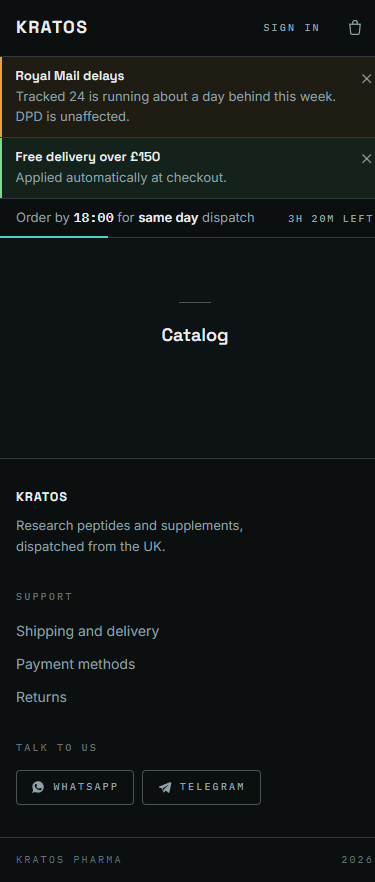
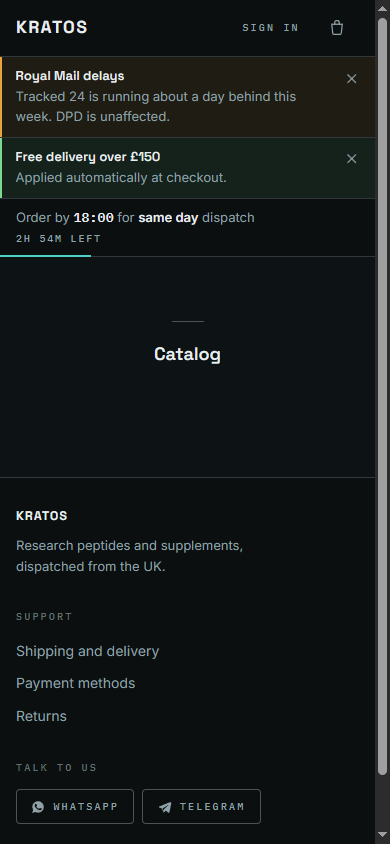
fix(web): closed-gate recovery polling, 44px tap targets, cut-off bar wrap, cart redirect flash
Claude-Session: https://claude.ai/code/session_01GcxZST4rkeVRNoYRfHhmv5

diff --git a/web/test/closed-gate.test.tsx b/web/test/closed-gate.test.tsx
@@ -1,0 +1,105 @@
+import { afterEach, describe, expect, it, vi } from 'vitest';
+import { act, cleanup, render, screen } from '@testing-library/react';
+import { QueryClient, QueryClientProvider } from '@tanstack/react-query';
+import { MantineProvider } from '@mantine/core';
+
+const api = vi.hoisted(() => ({ fetchSettings: vi.fn() }));
+vi.mock('@/api/settings.ts', () => ({ fetchSettings: api.fetchSettings }));
+
+import { CLOSED_POLL_MS, ClosedGate } from '@/app/App.tsx';
+import { SETTINGS_KEY } from '@/app/settings.ts';
+import { closedGate } from '@/app/closed-gate.ts';
+import type { StorefrontSettings } from '@/types/settings.ts';
+
+function settings(enabled: boolean): StorefrontSettings {
+  return {
+    enabled,
+    closedMessage: 'Back shortly.',
+    supportLinks: [],
+    brand: {
+      name: 'Kratos', shortName: 'KRATOS', tagline: '', title: 'Kratos', description: '',
+      logoUrl: null, faviconUrl: null, logoHeight: 28,
+      links: { whatsapp: null, telegram: null },
+    },
+  } as unknown as StorefrontSettings;
+}
+
+function mount() {
+  const client = new QueryClient({ defaultOptions: { queries: { retry: false } } });
+  client.setQueryData(SETTINGS_KEY, settings(true));
+  return render(
+    <QueryClientProvider client={client}>
+      <MantineProvider env="test">
+        <ClosedGate>
+          <p>Shop</p>
+        </ClosedGate>
+      </MantineProvider>
+    </QueryClientProvider>,
+  );
+}
+
+afterEach(() => {
+  cleanup();
+  vi.useRealTimers();
+  api.fetchSettings.mockReset();
+  closedGate.getState().setClosed(false);
+});
+
+describe('ClosedGate', () => {
+  it('reopens on its own after a mid-session 503, without a reload', async () => {
+    vi.useFakeTimers();
+    api.fetchSettings.mockResolvedValue(settings(true));
+    // What api/client.ts does when any call answers 503 STOREFRONT_DISABLED: the gate
+    // closes while the cached settings still say enabled, so nothing else would refetch.
+    closedGate.getState().setClosed(true);
+
+    mount();
+    expect(screen.getByText('Currently closed')).toBeInTheDocument();
+    expect(screen.queryByText('Shop')).toBeNull();
+    expect(api.fetchSettings).not.toHaveBeenCalled();
+
+    await act(async () => {
+      await vi.advanceTimersByTimeAsync(CLOSED_POLL_MS);
+    });
+
+    expect(api.fetchSettings).toHaveBeenCalled();
+    expect(closedGate.getState().closed).toBe(false);
+    expect(screen.getByText('Shop')).toBeInTheDocument();
+  });
+
+  it('stops polling once the shop is open again', async () => {
+    vi.useFakeTimers();
+    api.fetchSettings.mockResolvedValue(settings(true));
+    closedGate.getState().setClosed(true);
+
+    mount();
+    await act(async () => {
+      await vi.advanceTimersByTimeAsync(CLOSED_POLL_MS);
+    });
+    const callsWhenReopened = api.fetchSettings.mock.calls.length;
+
+    await act(async () => {
+      await vi.advanceTimersByTimeAsync(CLOSED_POLL_MS * 3);
+    });
+    expect(api.fetchSettings.mock.calls.length).toBe(callsWhenReopened);
+  });
+
+  it('keeps polling while the settings still report the shop closed', async () => {
+    vi.useFakeTimers();
+    api.fetchSettings.mockResolvedValue(settings(false));
+    closedGate.getState().setClosed(true);
+
+    mount();
+    await act(async () => {
+      await vi.advanceTimersByTimeAsync(CLOSED_POLL_MS);
+    });
+    expect(closedGate.getState().closed).toBe(true);
+    const first = api.fetchSettings.mock.calls.length;
+
+    await act(async () => {
+      await vi.advanceTimersByTimeAsync(CLOSED_POLL_MS);
+    });
+    expect(api.fetchSettings.mock.calls.length).toBeGreaterThan(first);
+    expect(screen.getByText('Currently closed')).toBeInTheDocument();
+  });
+});

diff --git a/web/src/app/App.tsx b/web/src/app/App.tsx
@@ -1,9 +1,9 @@
 import { useEffect, useMemo, useRef, type ReactNode } from 'react';
 import { Button, MantineProvider } from '@mantine/core';
 import { Notifications } from '@mantine/notifications';
-import { QueryClient, QueryClientProvider } from '@tanstack/react-query';
+import { QueryClient, QueryClientProvider, useQueryClient } from '@tanstack/react-query';
 import { RouterProvider } from 'react-router';
-import { useSettings, useSettingsQuery } from '@/app/settings.ts';
+import { SETTINGS_KEY, useSettings, useSettingsQuery } from '@/app/settings.ts';
 import { closedGate } from '@/app/closed-gate.ts';
 import { applyDocumentTheme, buildMantineTheme, THEME_STORAGE_KEY } from '@/app/theme-bridge.ts';
 import { router } from '@/app/router.tsx';
@@ -19,6 +19,9 @@ import classes from '@/app/App.module.css';
 const queryClient = new QueryClient({
   defaultOptions: { queries: { retry: 1, staleTime: 10_000 } },
 });
+
+/** How often a closed shop re-checks whether it has reopened (spec §6). */
+export const CLOSED_POLL_MS = 60_000;
 
 /** The last brand name we saw, so the retry screen can still name the shop. */
 function lastKnownBrandName(): string | null {
@@ -63,9 +66,23 @@ function useBootCart() {
   }, []);
 }
 
-function ClosedGate({ children }: { children: ReactNode }) {
+export function ClosedGate({ children }: { children: ReactNode }) {
   const closed = closedGate((s) => s.closed);
   const settings = useSettings();
+  const client = useQueryClient();
+
+  // A mid-session 503 flips the gate while the cached settings still say `enabled: true`,
+  // so settings.ts's own refetchInterval — which keys off that cache — never fires and the
+  // tab would sit here forever. Poll from the gate instead; the settings queryFn clears
+  // `closed` as soon as a response comes back enabled, so the shop returns on its own.
+  useEffect(() => {
+    if (!closed) return;
+    const timer = setInterval(() => {
+      void client.invalidateQueries({ queryKey: SETTINGS_KEY });
+    }, CLOSED_POLL_MS);
+    return () => clearInterval(timer);
+  }, [closed, client]);
+
   return closed || !settings.enabled ? <ClosedPage /> : <>{children}</>;
 }
 

diff --git a/web/src/layouts/StorefrontShell.module.css b/web/src/layouts/StorefrontShell.module.css
@@ -60,13 +60,14 @@
   flex: none;
 }
 
+/* 44px on touch, tightened to 38px at the desktop breakpoint where the pointer is fine. */
 .action {
   position: relative;
   display: inline-flex;
   align-items: center;
   justify-content: center;
-  width: 38px;
-  height: 38px;
+  width: 44px;
+  height: 44px;
   color: var(--sf-muted);
   border-radius: var(--mantine-radius-default);
   text-decoration: none;
@@ -97,6 +98,9 @@
 }
 
 .signIn {
+  display: inline-flex;
+  align-items: center;
+  min-height: 44px;
   padding: 0.6rem 0.7rem;
   font-family: var(--sf-font-mono);
   font-size: 10px;
@@ -205,6 +209,13 @@
     height: 68px;
     gap: 2rem;
     padding-inline: 1.5rem;
+  }
+  .action {
+    width: 38px;
+    height: 38px;
+  }
+  .signIn {
+    min-height: 38px;
   }
   .search {
     display: block;

diff --git a/web/src/app/router.tsx b/web/src/app/router.tsx
@@ -45,7 +45,9 @@ function ProductRoute() {
 
 /** The cart is a page on a phone and a drawer on a desktop — /cart hands off to the drawer there. */
 function CartRoute() {
-  const desktop = useMediaQuery(DESKTOP, false);
+  // Resolve the match synchronously: with the default deferred read the first render
+  // is always `false`, so a desktop visitor sees CartPage flash before the redirect.
+  const desktop = useMediaQuery(DESKTOP, false, { getInitialValueInEffect: false });
   const openPanel = useUiStore((s) => s.open);
   useEffect(() => {
     if (desktop) openPanel('cartOpen');

diff --git a/web/src/features/notices/CutoffBar.module.css b/web/src/features/notices/CutoffBar.module.css
@@ -81,6 +81,17 @@
   background: var(--sf-warn);
 }
 
+/* On phones the sentence and the countdown land within a few pixels of each other and
+   the countdown sits flush against the padding, so give it its own line. The breakpoint
+   is 25em rather than 24em because media queries match the viewport width including the
+   scrollbar: a 390px viewport leaves a 375px content box but still reports 24.375em. */
+@media (max-width: 25em) {
+  .left {
+    flex-basis: 100%;
+    margin-left: 0;
+  }
+}
+
 @media (prefers-reduced-motion: reduce) {
   .meter {
     transition: none;

diff --git a/web/src/layouts/MenuShell.module.css b/web/src/layouts/MenuShell.module.css
@@ -55,13 +55,14 @@
   flex: none;
 }
 
+/* 44px on touch, tightened to the dense 34px at the desktop breakpoint. */
 .action {
   position: relative;
   display: inline-flex;
   align-items: center;
   justify-content: center;
-  width: 34px;
-  height: 34px;
+  width: 44px;
+  height: 44px;
   color: var(--sf-muted);
   border-radius: var(--mantine-radius-default);
   text-decoration: none;
@@ -104,6 +105,10 @@
     height: 60px;
     gap: 1rem;
     padding-inline: 1rem;
+  }
+  .action {
+    width: 34px;
+    height: 34px;
   }
   .main {
     padding-inline: 1rem;

diff --git a/web/src/features/notices/NoticeBanners.module.css b/web/src/features/notices/NoticeBanners.module.css
@@ -54,8 +54,27 @@
 }
 
 .close {
+  position: relative;
   flex: none;
   color: var(--sf-muted);
+}
+
+/* Mantine owns the button's own box, so expand the hit area rather than fight its
+   sizing: a transparent 44px target centred on the glyph. */
+.close::before {
+  content: '';
+  position: absolute;
+  top: 50%;
+  left: 50%;
+  width: 44px;
+  height: 44px;
+  transform: translate(-50%, -50%);
+}
+
+@media (min-width: 62em) {
+  .close::before {
+    display: none;
+  }
 }
 
 .close:hover {
